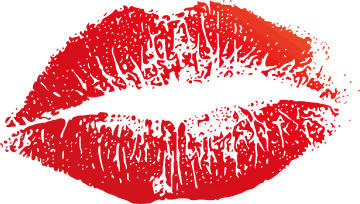
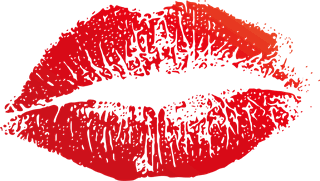
Все пять отпечатков в дело; вторая кнопка — на русский дубляж
Отпечатки. Было два файла на пять точек вылета — они шли по кругу.
Теперь пять своих, каждому досталась своя точка.

Три новых оказались сильно темнее первых двух. Замерил контраст с
фоном сцены (#2E0E1D): kiss2 — 7.4, kiss1 — 3.5, а foto3 — 2.5 и
foto5 — 1.06, то есть последнюю на фоне физически не видно. Тем, кто
ниже порога 3.0, гамма подбирается перебором до контраста 3.7; уже
принятые kiss1 и kiss2 по тону не тронуты — им подъём не нужен.

Четвёртая картинка — сразу три отпечатка в одном кадре, поэтому ей
дан масштаб 1.4 и свой отступ от края: при общих 2vw её срезало на
12 px. Отступ теперь задаётся на точку, по умолчанию прежний.

Вес: фактура сидит в альфе и шумит, PNG её жмёт плохо. Альфа
огрублена до 24 уровней, ширина 320 (на экране максимум ~170),
цветов 48. На глаз не отличить, все пять весят 393 КБ — против 580,
если делать как раньше.

Точки разнесены по высоте 19–79%: раньше все пять жались в середину.

Видео. Вторая кнопка теперь ведёт на собственный русский дубляж
ролика Schmincke вместо оригинала. Подсказка про то, как включить
субтитры, убрана — она больше не нужна.

diff --git a/index.html b/index.html
@@ -33,13 +33,14 @@
 
   // Поцелуи, вылетающие по бокам на строке про любовь.
   // onLine — номер строки в PHRASE, считая с нуля.
-  // count  — сколько отпечатков. Рисуются кодом, файлы не нужны.
-  // images — если положишь свои PNG рядом с index.html, впиши их сюда,
-  //          и они будут использованы вместо нарисованных.
+  // count  — сколько отпечатков вылетает.
+  // images — файлы рядом с index.html. Каждому достаётся своя точка
+  //          вылета: первый файл — первая точка в SPOTS и так далее.
+  //          Если оставить список пустым, отпечатки рисуются кодом.
   const KISSES = {
     onLine: 3,
     count:  5,
-    images: ["kiss1.png", "kiss2.png"],
+    images: ["kiss1.png", "kiss2.png", "kiss3.png", "kiss4.png", "kiss5.png"],
   };
 
   // Рука-стикер. Выталкивает лишние «самого» и освобождает место для «× ∞».
@@ -80,10 +81,8 @@
     {
       icon:  "sound",
       title: "Как этим пользоваться",
-      note:  "видео от самих Schmincke",
-      url:   "https://youtu.be/H7e5FrgiM6M",
-      hint:  "Русские субтитры включаются сами. Если вдруг нет — шестерёнка " +
-             "в плеере, «Субтитры» → «Перевести» → «Русский».",
+      note:  "видео Schmincke, озвучено по-русски",
+      url:   "https://youtu.be/jELl8GLV99E",
     },
     {
       icon:  "page",
@@ -1068,13 +1067,18 @@ a:focus-visible,summary:focus-visible{outline:2px solid var(--accent);outline-of
 
   /* ---------------- поцелуи ---------------- */
   // Точки вылета: сторона, высота, наклон и момент внутри строки.
+  // Точки идут в том же порядке, что и файлы в KISSES.images, поэтому
+  // размер и наклон подогнаны под конкретный отпечаток: на четвёртой
+  // картинке отпечатков сразу три, ей нужно больше места, иначе губы
+  // выходят с ноготь.
   var SPOTS = [
-    { side: "left",  top: "24%", rot: -18, at: 0.06, flip: false, sc: 1.00 },
-    { side: "right", top: "36%", rot:  14, at: 0.24, flip: true,  sc: 0.80 },
-    { side: "left",  top: "56%", rot:  11, at: 0.42, flip: true,  sc: 1.14 },
-    { side: "right", top: "64%", rot: -13, at: 0.58, flip: false, sc: 0.88 },
-    { side: "left",  top: "74%", rot:  17, at: 0.74, flip: false, sc: 1.06 },
-    { side: "right", top: "18%", rot:  -9, at: 0.88, flip: true,  sc: 0.94 }
+    { side: "left",  top: "19%", rot: -16, at: 0.05, flip: false, sc: 1.00 },
+    { side: "right", top: "33%", rot:  13, at: 0.22, flip: true,  sc: 0.84 },
+    { side: "left",  top: "51%", rot:  10, at: 0.40, flip: true,  sc: 1.12 },
+    { side: "right", top: "62%", rot:  -8, at: 0.57, flip: false, sc: 1.40,
+      off: "clamp(14px,4.5vw,34px)" },
+    { side: "left",  top: "79%", rot:  15, at: 0.74, flip: false, sc: 1.02 },
+    { side: "right", top: "16%", rot:  -9, at: 0.88, flip: true,  sc: 0.94 }
   ];
   var kissEls = [];
   var kissBox = document.getElementById("kisses");
@@ -1177,7 +1181,7 @@ a:focus-visible,summary:focus-visible{outline:2px solid var(--accent);outline-of
     var box = document.createElement("div");
     box.className = "kiss";
     box.style.top = sp.top;
-    box.style[sp.side] = "2vw";
+    box.style[sp.side] = sp.off || "2vw";
 
     if (files.length) {
       var im = document.createElement("img");
